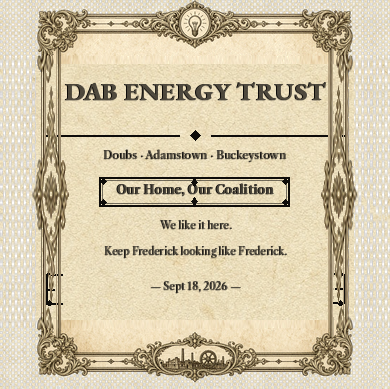
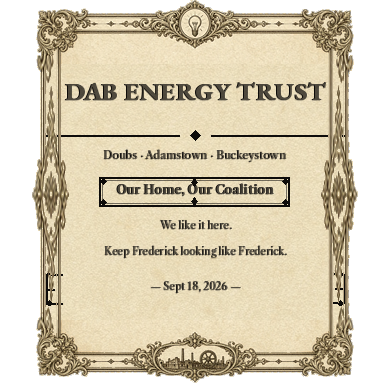
Blend home masthead into warm paper_tile
Replace the opaque Option D plate with Pea Eye's feathered PNG so
transparent corners show the warm woodcut paper instead of a cooler
gray rectangle. Lock .dab-masthead / .dab-header-hero to no CSS plate.

diff --git a/tests/masthead-grand-d.spec.ts b/tests/masthead-grand-d.spec.ts
@@ -9,11 +9,19 @@ async function assertNoTitleUnderline(page: import("@playwright/test").Page) {
 
   const styles = await masthead.evaluate((el) => {
     const computed = getComputedStyle(el);
+    const header = el.closest("header");
+    const headerStyles = header ? getComputedStyle(header) : null;
     return {
       textDecorationLine: computed.textDecorationLine,
       borderBottomWidth: computed.borderBottomWidth,
       borderBottomStyle: computed.borderBottomStyle,
       objectFit: computed.objectFit,
+      backgroundColor: computed.backgroundColor,
+      boxShadow: computed.boxShadow,
+      filter: computed.filter,
+      headerBackgroundColor: headerStyles?.backgroundColor ?? null,
+      headerBoxShadow: headerStyles?.boxShadow ?? null,
+      headerFilter: headerStyles?.filter ?? null,
     };
   });
 
@@ -24,6 +32,20 @@ async function assertNoTitleUnderline(page: import("@playwright/test").Page) {
     styles.borderBottomWidth === "0px" || styles.borderBottomStyle === "none",
   ).toBe(true);
   expect(styles.objectFit).toBe("contain");
+
+  const transparent = (value: string | null) =>
+    !value ||
+    value === "transparent" ||
+    value === "rgba(0, 0, 0, 0)" ||
+    value === "rgba(0,0,0,0)";
+  expect(transparent(styles.backgroundColor)).toBe(true);
+  expect(styles.boxShadow === "none" || styles.boxShadow === "").toBe(true);
+  expect(styles.filter === "none" || styles.filter === "").toBe(true);
+  expect(transparent(styles.headerBackgroundColor)).toBe(true);
+  expect(styles.headerBoxShadow === "none" || styles.headerBoxShadow === "").toBe(
+    true,
+  );
+  expect(styles.headerFilter === "none" || styles.headerFilter === "").toBe(true);
 }
 
 test.describe("Option D masthead cartouche", () => {
@@ -50,6 +72,29 @@ test.describe("Option D masthead cartouche", () => {
     expect(box!.height).toBeGreaterThan((box!.width * 250) / 390 + 8);
 
     await assertNoTitleUnderline(page);
+
+    const corners = await masthead.evaluate((el) => {
+      const img = el as HTMLImageElement;
+      const canvas = document.createElement("canvas");
+      canvas.width = img.naturalWidth;
+      canvas.height = img.naturalHeight;
+      const ctx = canvas.getContext("2d");
+      if (!ctx) return [];
+      ctx.drawImage(img, 0, 0);
+      const pts = [
+        [0, 0],
+        [img.naturalWidth - 1, 0],
+        [0, img.naturalHeight - 1],
+        [img.naturalWidth - 1, img.naturalHeight - 1],
+        [8, 8],
+        [img.naturalWidth - 9, 8],
+      ] as const;
+      return pts.map(([x, y]) => Array.from(ctx.getImageData(x, y, 1, 1).data));
+    });
+    expect(corners.length).toBeGreaterThan(0);
+    for (const pixel of corners) {
+      expect(pixel[3], "masthead corners must be transparent").toBe(0);
+    }
 
     await mkdir(SHOT_DIR, { recursive: true });
     await page.screenshot({

diff --git a/app/tokens.css b/app/tokens.css
@@ -203,6 +203,17 @@
   /* Title rule is baked in the PNG with ≥18px gap — never CSS-underline */
   text-decoration: none;
   border-bottom: 0;
+  /* Blend pass: transparent cartouche edges must show page paper_tile, not a CSS plate */
+  background: none;
+  background-color: transparent;
+  box-shadow: none;
+  filter: none;
+}
+.dab-header-hero {
+  background: none;
+  background-color: transparent;
+  box-shadow: none;
+  filter: none;
 }
 .dab-divider { display: block; width: 100%; max-width: 100%; height: auto; margin: 0.75rem auto 1.1rem; }
 .dab-doc-list { display: flex; flex-direction: column; gap: var(--card-gap); list-style: none; padding: 0; margin: 0 0 1.25rem; }

diff --git a/public/art/mobile/BLEND_HANDOFF.md b/public/art/mobile/BLEND_HANDOFF.md
@@ -1,0 +1,21 @@
+# Home masthead blend fix — Pea Eye
+
+Nick: color bleeding between front-page masthead and paper background.
+
+## Cause
+Option D cartouche PNG was a **fully opaque** plate; corner/edge parchment ran cooler/grayer (~218,212,200) against warm woodcut paper tile (~234,220,185).
+
+## Fix (art)
+`public/art/mobile/masthead_390_compact.png` rebuilt:
+1. Exterior outside cartouche ornament → transparent (page paper shows through)
+2. Interior parchment color-matched toward `woodcut/paper_tile.png`
+3. Soft feather at plate edge (no hard cream halo)
+
+Backup: `masthead_390_compact_PRE_BLEND.png`
+
+## Wire
+Same path — redeploy / hard-refresh. CSS: `.dab-masthead` / `.dab-header-hero` have no background-color, box-shadow, or filter that reintroduces a plate.
+
+## QC
+Verify at **390**: masthead corners should not show a cooler gray rectangle against the warm paper.
+Preview: `v3/site-qc/home-blend-fix/PREVIEW_blend_on_paper.jpg`

diff --git a/public/art/mobile/MASTHEAD_GRAND_D.md b/public/art/mobile/MASTHEAD_GRAND_D.md
@@ -24,5 +24,7 @@ Backup of prior: `masthead_390_compact_PRE_GRAND_D.png`
 
 Live wire: `SiteShell` + `.dab-masthead` at **390×389** (`height: auto`). Default src is the on-paper compact; ink-only is an unused alt while paper tiles behind the sheet.
 
+Blend pass (2026-09-19): live compact is now a feathered cartouche with transparent exterior — see `BLEND_HANDOFF.md`. Do not restore the opaque cooler plate.
+
 ## Preview
 Attached `PREVIEW_D.jpg` (handoff). Supersedes the 390×250 clear-gap plate.
